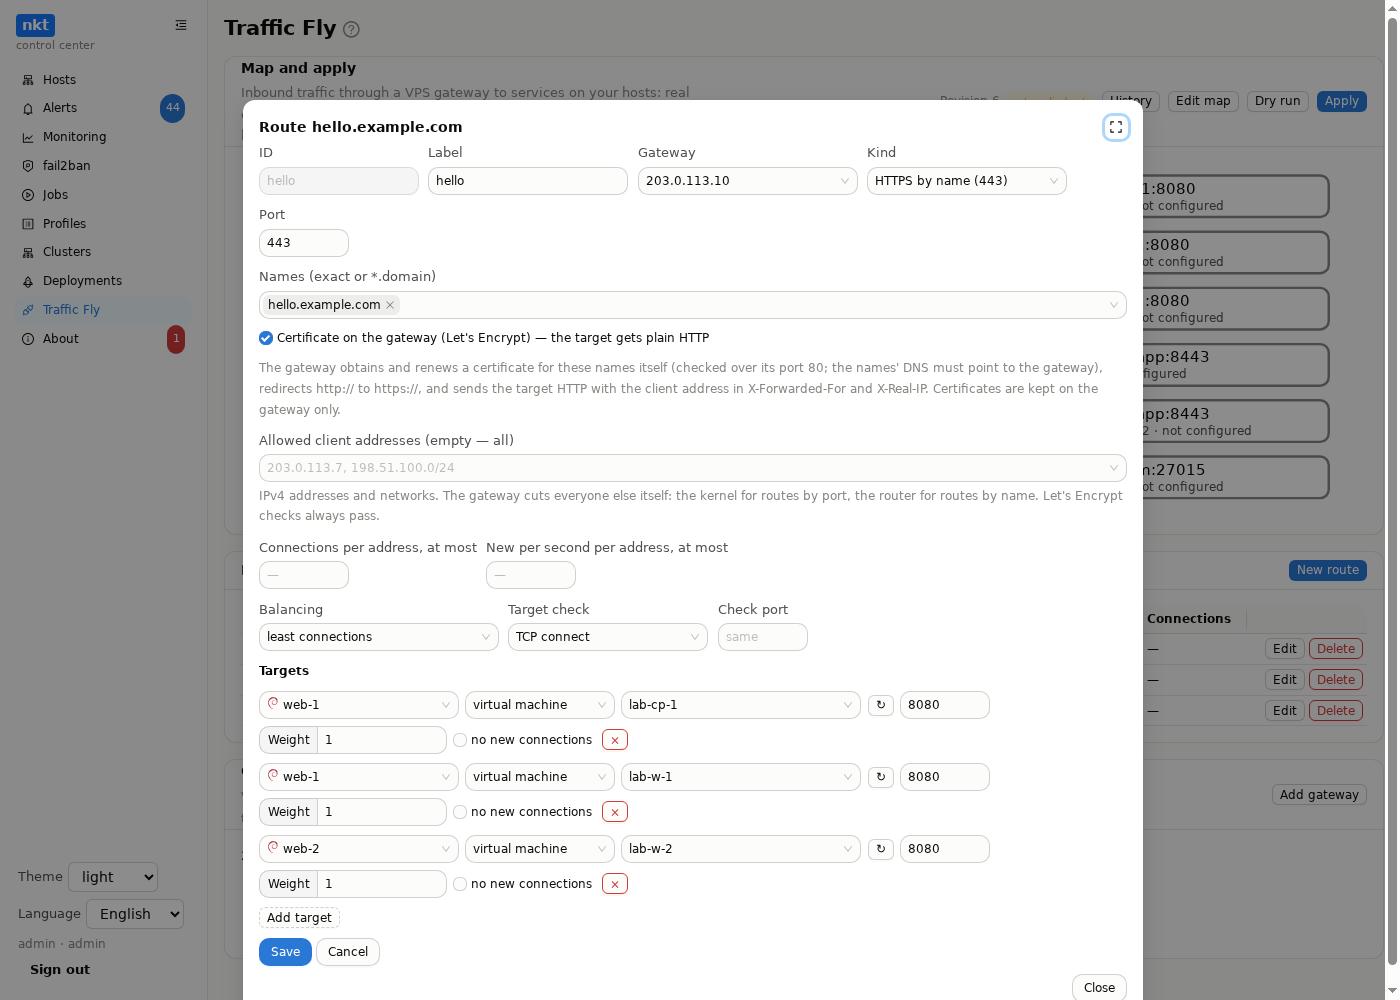
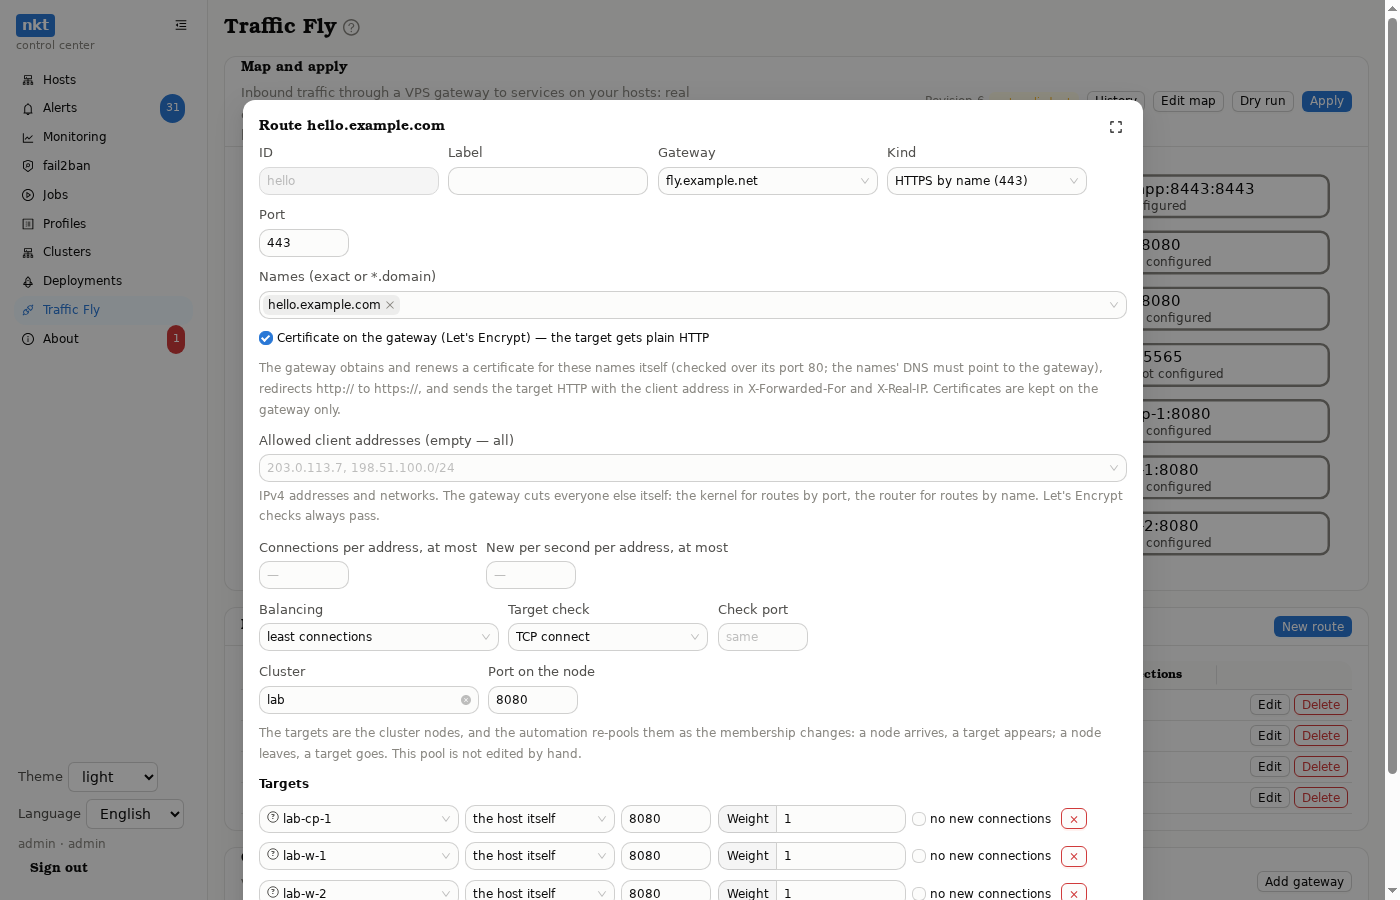
Walkthrough «Кластер Kubernetes: от нуля до первого пода» переписан под два варианта кластера: справка умела только kubeadm с Ingress Cilium и учила вписывать цели маршрута руками, из-за чего на k3s-кластере вход наружу по ней не собирался — Traefik там ставится вместе с k3s (nkt при установке --dis

diff --git a/scripts/screenshots.py b/scripts/screenshots.py
@@ -113,6 +113,10 @@ SCREENS = [
     # Карточка кластера с кнопкой «Цели Traffic Fly»: она появляется,
     # у кластера есть привязанные маршруты (их число — в подсказке).
     ('hub-cluster-fly', 'hub', '/', "menu({ru: 'Кластеры', en: 'Clusters'}); await sleep(2000); [...document.querySelectorAll('.ant-card')].find((e) => /demo/.test(e.textContent))?.scrollIntoView({block: 'start'}); await sleep(500)"),
+    # Walkthrough «Кластер Kubernetes: от нуля до первого пода»: редактор
+    # маршрута, привязанного к кластеру (имя из справки — lab). Нужен кластер
+    # lab с тремя узлами и маршрут hello на карте (PUT /api/hub/fly).
+    ('k8s-first-pod-route', 'hub', '/', "menu({ru: 'Traffic Fly', en: 'Traffic Fly'}); await sleep(2500); [...document.querySelectorAll('tr')].find((r) => /hello\\.example/.test(r.textContent))?.querySelectorAll('button').forEach((b) => { if (new RegExp('^' + pick({ru: 'Изменить', en: 'Edit'}) + '$').test(b.textContent.trim())) b.click() }); await sleep(1500); [...document.querySelectorAll('.ant-modal label')].find((l) => new RegExp('^' + pick({ru: 'Кластер', en: 'Cluster'}) + '$').test(l.textContent.trim()))?.scrollIntoView({block: 'center'}); await sleep(600)"),
 ]
 
 # Помощники, доступные действию: клик по пункту меню/вкладке/тексту.

diff --git a/WHATSNEW.md b/WHATSNEW.md
@@ -12,6 +12,14 @@ Release из разделов, накопившихся с прошлого те
 тем же коммитом: workflow приклеивает её к описанию релиза после
 маркера `<!-- en -->`, и хаб показывает читающему его язык.
 
+## v1.17.30 — 2026-11-06
+
+- **Walkthrough «Кластер Kubernetes: от нуля до первого пода» переписан под два варианта кластера.** Раньше справка умела только kubeadm с Ingress Cilium и учила перечислять цели маршрута руками — на k3s-кластере по ней вход наружу не получался.
+  - Развилка ingress-контроллера: на **k3s** Traefik приезжает с самим k3s (nkt его не отключает), `ingressClassName: traefik`, порт целей — **80** узла; на **kubeadm** — Ingress Cilium с `host network`, `ingressClassName: cilium`, порт **8080**.
+  - Шаг маршрута — поле **«Кластер»**: цели строит автомат по узлам кластера, а не три цели, вписанные руками; там же «Порт на узле» и подсказка, что этот пул руками не правят. Снимок маршрута переснят.
+  - В «Если не работает» добавлено то, на что реально натыкаются: `cilium status` без kubeconfig отвечает ошибками `localhost:8080`, которые ничего не проверяют; у k3s в `ss -ltn` слушателя `:80` нет, а адрес узла отвечает — это норма; `ingressClassName` не от своего контроллера — снаружи молчание; `kubectl exec`/`logs` одного узла с `502 while dialing …:10250` при живом узле — на k3s это туннель агента, а не сеть.
+  - Проверять ingress-контроллер и порт целей надо адресом узла: по `127.0.0.1` ответ может не прийти.
+
 ## v1.17.29 — 2026-11-06
 
 - **Helm и чарт Longhorn доезжают до узла через хаб.** Дополнение было единственным шагом кластера, который умел просить интернет только у себя: на узле без исходящего TCP (Cilium с заменой kube-proxy в NAT-сети хоста) загрузка `get.helm.sh` висела две минуты и валила задание кодом 28, тогда как apt, k3s и Cilium CLI в это же время спокойно качались через кэш.

diff --git a/WHATSNEW.en.md b/WHATSNEW.en.md
@@ -8,6 +8,14 @@ commits (that is [CHANGELOG.md](CHANGELOG.md)). The Russian original is
 release body after a `<!-- en -->` marker, and the hub shows the reader
 their language in "About" when a newer version appears. Newest first.
 
+## v1.17.30 — 2026-11-06
+
+- **The walkthrough "A Kubernetes cluster: from zero to the first pod" now covers both flavors.** It only knew kubeadm with Cilium Ingress and taught listing route targets by hand — on a k3s cluster outside access did not come out of it.
+  - The ingress branch: on **k3s** Traefik comes with k3s itself (nkt does not disable it), `ingressClassName: traefik`, the target port is **80** of the node; on **kubeadm** it is Cilium Ingress with `host network`, `ingressClassName: cilium`, port **8080**.
+  - The route step is the **"Cluster"** field: the automation builds the targets from the cluster's nodes instead of three hand-typed targets, with "Port on the node" and the hint that this pool is not edited by hand. The route screenshot was retaken.
+  - "If it doesn't work" gained what people actually hit: `cilium status` without a kubeconfig answers with `localhost:8080` errors that check nothing; on k3s `ss -ltn` shows no `:80` listener while the node's address answers — that is normal; an `ingressClassName` of the other controller means silence from outside; `kubectl exec`/`logs` of one node failing with `502 while dialing …:10250` while the node is `Ready` is the agent tunnel on k3s, not the network.
+  - Check the ingress controller and the target port through the node's address: `127.0.0.1` may not answer at all.
+
 ## v1.17.29 — 2026-11-06
 
 - **Helm and the Longhorn chart now reach the node through the hub.** The add-on was the one cluster step that could only ask the internet itself: on a node without outbound TCP (Cilium replacing kube-proxy in the host's NAT network) the `get.helm.sh` download hung for two minutes and failed the job with code 28, while apt, k3s and the Cilium CLI were happily downloading through the cache.
